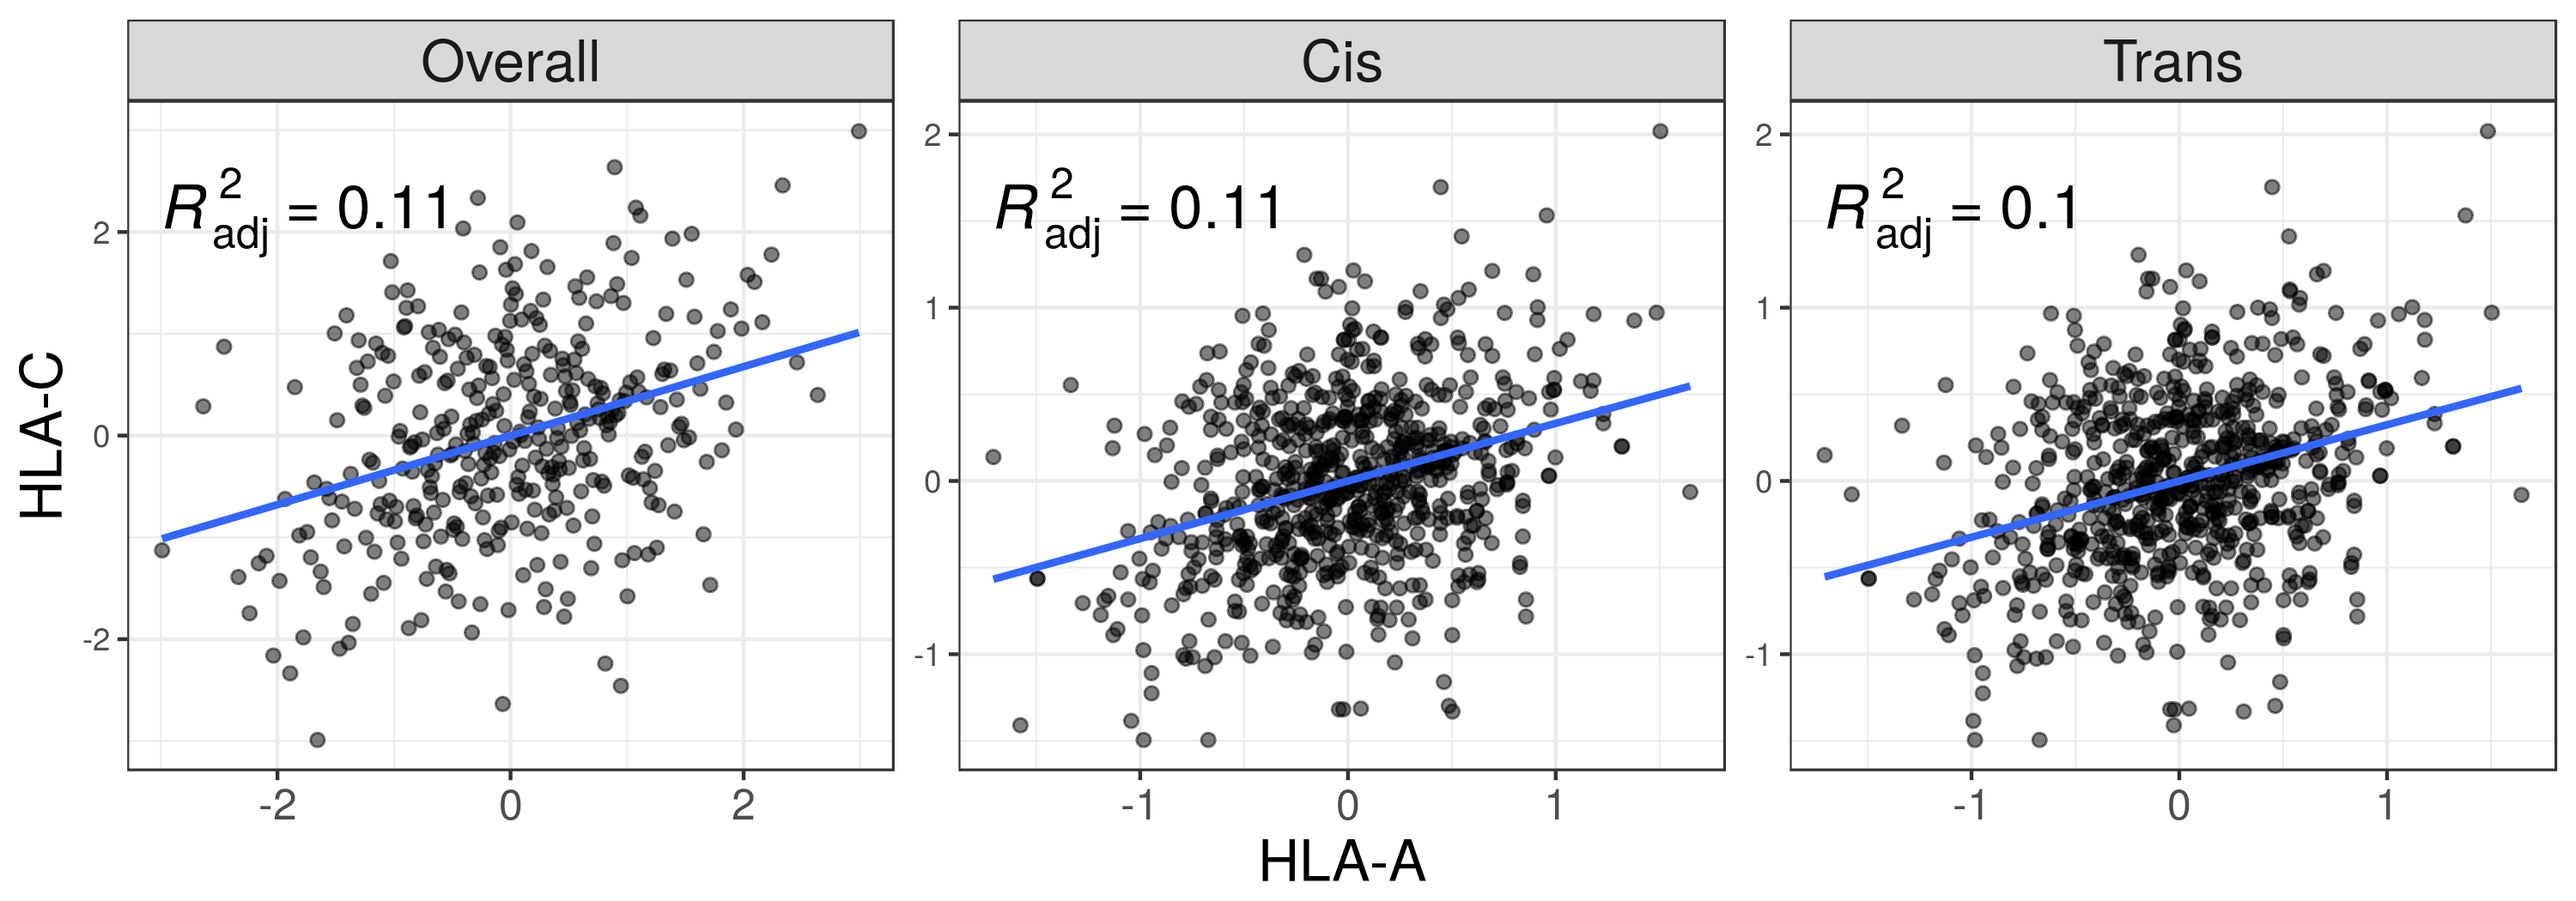
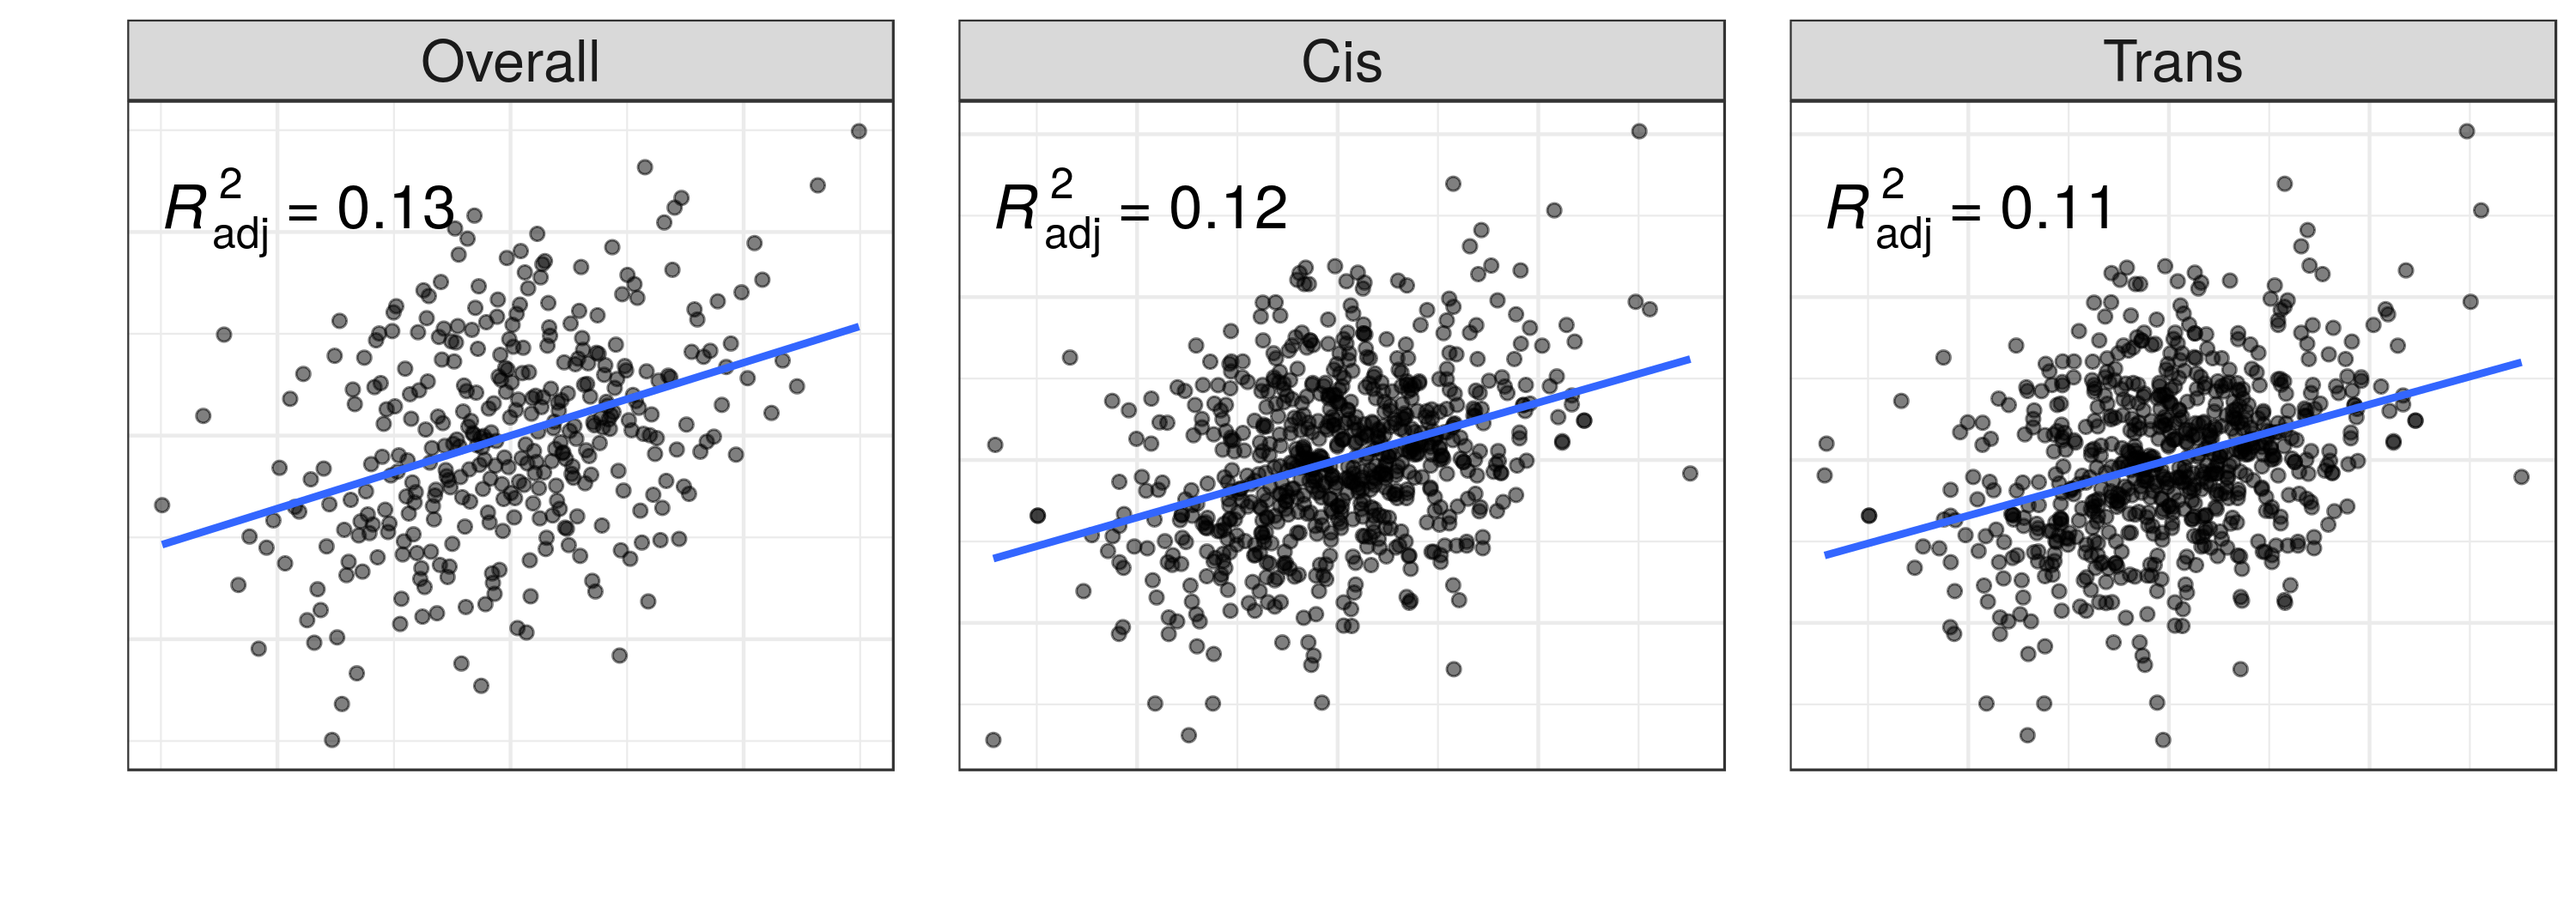
update plots after running PEER/PCA without known covariates

diff --git a/geuvadis_reanalysis/expression/report.md b/geuvadis_reanalysis/expression/report.md
@@ -34,15 +34,25 @@ kallisto vs STAR-Salmon
 
 ![](./plots/kallisto_vs_star.png)
 
-kallisto vs Geuvadis
---------------------
+kallisto vs Geuvadis (Published)
+--------------------------------
 
 ![](./plots/kallisto_vs_geuvadis.png)
 
-STAR-Salmon vs Geuvadis
------------------------
+STAR-Salmon vs Geuvadis (Published)
+-----------------------------------
 
 ![](./plots/star_vs_geuvadis.png)
+
+kallisto vs Geuvadis (new quantifications)
+------------------------------------------
+
+![](./plots/kallisto_vs_geuvadis_new.png)
+
+STAR-Salmon vs Geuvadis (new quantifications)
+---------------------------------------------
+
+![](./plots/star_vs_geuvadis_new.png)
 
 kallisto: HLA diversity vs reference chromosomes only
 -----------------------------------------------------
